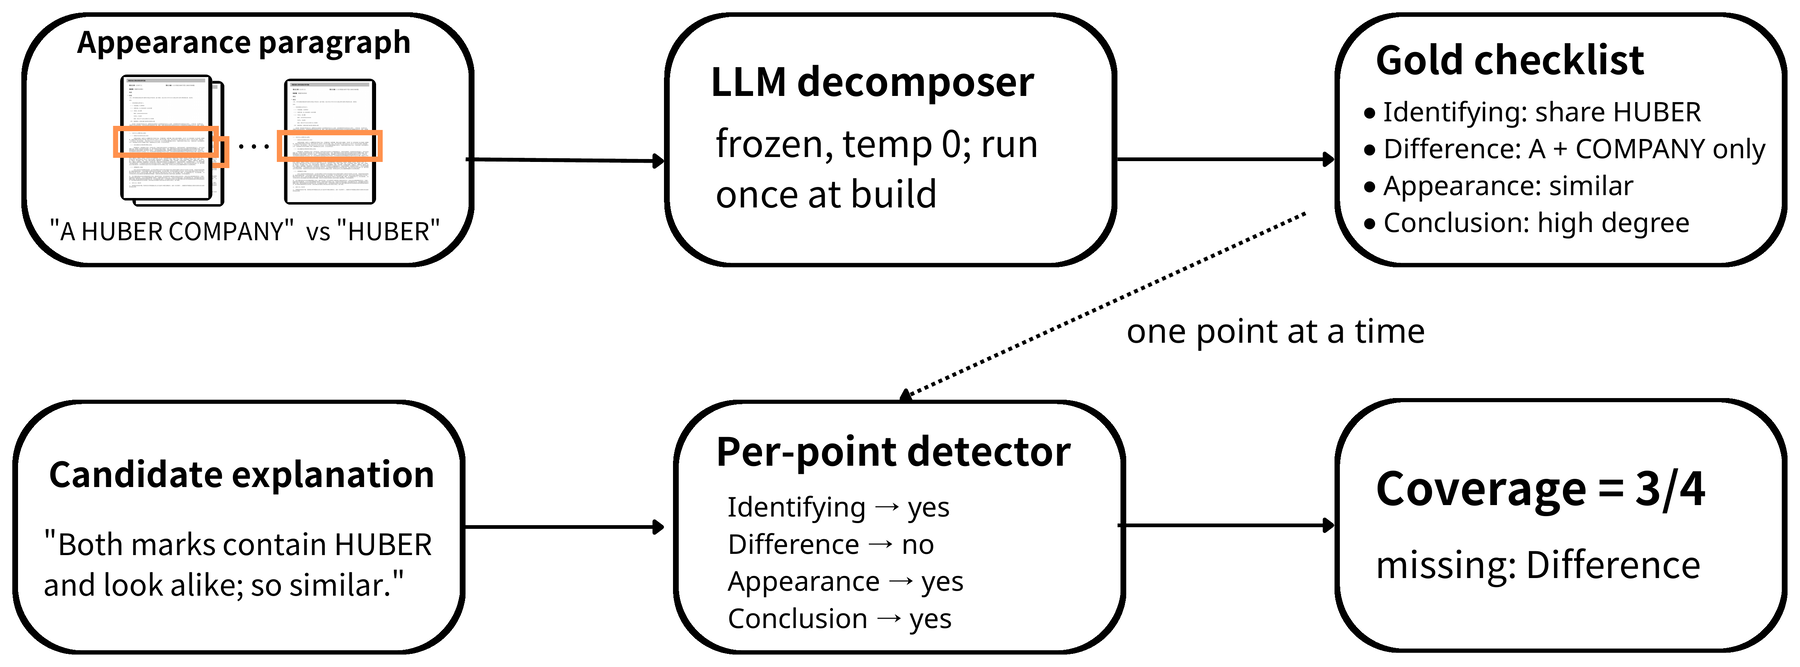
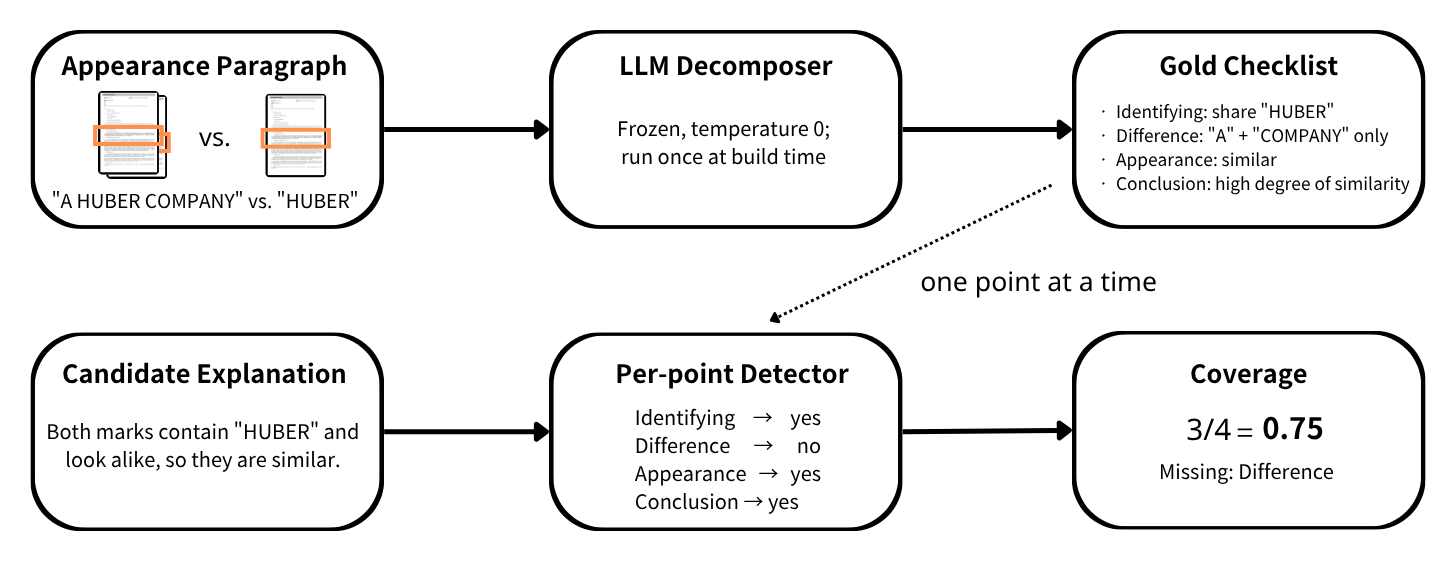
docs(letitbe): align wording with the paper and point shared content to the root README
- Call the source documents refusal dispositions, as the paper does
- Describe the detector report as overall precision, recall and F1 plus
  accuracy for each pair type, which is what letitbe.py prints
- Drop the clone step, the adapter table, the image sourcing notes and the
  license details that the root README already covers, and link to it
- Update the pipeline figure and crop its margins
- Small wording fixes in PROMPTS.md, SCHEMA.md, letitbe.py and preprocess.py

diff --git a/LETITBE/letitbe.py b/LETITBE/letitbe.py
@@ -9,7 +9,7 @@ Two tasks, one engine layer.
 `coverage` scores candidate explanations: for each gold reason point it asks the engine one
 yes/no question, and a case's coverage is the fraction of its points the candidate entails.
 `detector` evaluates the engine itself on labelled candidate-claim pairs and reports
-precision, recall and F1, broken down by how each negative was constructed.
+overall precision, recall and F1, and accuracy for each pair type.
 
 `qualify` decides whether an engine may be used at all, by scoring five candidates of known
 relative quality per case and checking the result against a published gate.
@@ -154,8 +154,7 @@ class ApiEngine:
 
     def _one(self, prompt):
         for i in range(self.retries):
-            # Greedy, to match the hf backend's do_sample=False. A metric that returns a
-            # different score for the same input on a second run is not a metric.
+            # Greedy, to match the hf backend's do_sample=False.
             kw = {} if self.temperature is None else {"temperature": self.temperature}
             try:
                 r = self.client.chat.completions.create(

diff --git a/LETITBE/README.md b/LETITBE/README.md
@@ -26,11 +26,10 @@ LETITBE/
 
 ## 1. Install
 
-Every command below runs from `VERTAG/LETITBE`.
+Clone the repository as in the [root README](../README.md#installation); every command below runs from `VERTAG/LETITBE`.
 
 ```bash
-git clone https://github.com/spaces-lalala/VERTAG.git
-cd VERTAG/LETITBE
+cd LETITBE
 pip install openai                  # enough for scoring through Ollama or any OpenAI-compatible API
 pip install -r requirements.txt     # the rest: --backend hf, decompose, fine-tuning
 ```
@@ -78,11 +77,11 @@ To evaluate a detector rather than score explanations, give it labelled candidat
 python letitbe.py detector --input examples/detector.example.jsonl --engine qwen2.5:7b
 ```
 
-It reports precision, recall and F1 broken down by how each negative was built. Accuracy on `hard_neg` is the primary diagnostic: a detector that matches on surface overlap accepts polarity flips and scores near zero there.
+It reports overall precision, recall and F1, and accuracy for each pair type. Accuracy on `hard_neg` is the primary diagnostic: a detector that matches on surface overlap accepts polarity flips and scores near zero there.
 
 ## 4. Choose an engine
 
-Use **`Qwen2.5-7B-Instruct` zero-shot**, the reference engine behind the paper's coverage figures. Any other engine must first pass the qualification gate: **boilerplate coverage no higher than 0.05, and a strictly monotone decline across full, ablate-1, ablate-half and wrong.**
+Use **`Qwen2.5-7B-Instruct` zero-shot**, the reference engine behind the paper's coverage scores. Any other engine must first pass the qualification gate: **boilerplate coverage no higher than 0.05, and a strictly monotone decline across full, ablate-1, ablate-half and wrong.**
 
 ```bash
 python letitbe.py qualify --input your_gold.jsonl --engine <engine>
@@ -101,26 +100,15 @@ python letitbe.py detector --input your_pairs.jsonl \
 
 `google/gemma-2-9b-it` is gated; accept its terms on Hugging Face and set `HF_TOKEN` first ([FAQ](../README.md#faq)).
 
-### Released adapters
-
-| Adapter | Base model |
-|---|---|
-| [`annieyii/letitbe-hitdet-gemma2-9b`](https://huggingface.co/annieyii/letitbe-hitdet-gemma2-9b) | `google/gemma-2-9b-it` |
-| [`annieyii/letitbe-hitdet-breeze-7b`](https://huggingface.co/annieyii/letitbe-hitdet-breeze-7b) | `MediaTek-Research/Breeze-7B-Instruct-v1_0` |
-
-Each model card on Hugging Face carries the prompt format, measurements, training setup and license. An adapter is **not** covered by this repository's licenses: each inherits its base model's terms, and for `gemma-2-9b` that means the Gemma Terms of Use.
+The released adapters are listed in the root README's [Model Zoo](../README.md#model-zoo). Each model card on Hugging Face carries the prompt format, measurements, training setup and license. An adapter is **not** covered by this repository's licenses: each inherits its base model's terms, and for `gemma-2-9b` that means the Gemma Terms of Use.
 
 ## 5. Build the corpus yourself
 
-The trademark images, the office action corpus, the decomposed corpus and the evaluation sets used in the paper are not distributed here. Everything below assumes you have obtained the source material first.
+The office action corpus, the decomposed corpus and the evaluation sets used in the paper are not distributed here. Everything below assumes you have obtained the source material first.
 
-The corpus is built from TIPO rejection dispositions (核駁審定書, `dptKind = REJ`), public administrative dispositions issued by the Taiwan Intellectual Property Office. The collection used in the paper covers examination numbers T0300000 to T0454297 and was retrieved in May and June 2026.
+The corpus is built from TIPO refusal dispositions (核駁審定書, `dptKind = REJ`), public administrative dispositions issued by the Taiwan Intellectual Property Office. The collection used in the paper covers examination numbers T0300000 to T0454297 and was retrieved in May and June 2026. We do not provide collection tooling; obtain these documents directly from TIPO.
 
-**Trademark images.** Marks are identified by their public registration numbers. TIPO publishes mark images through its patent and trademark open data service and its official trademark search system; look up a registration number there and save the image you need. We do not mirror, bulk-distribute, or provide collection tooling for these images.
-
-**Office action documents.** These are public administrative dispositions issued by TIPO. We do not redistribute the corpus and we do not provide collection tooling for it. Users must obtain these documents directly from TIPO.
-
-**Derived artifacts.** For the decomposed corpus, the gold checklists, or the evaluation subsets used in the paper, contact **matywu@gmail.com** with a short description of your intended use. These are released under CC BY-NC 4.0 and may not be used commercially.
+**Derived artifacts.** For the decomposed corpus, the gold checklists, or the evaluation subsets used in the paper, write to the [contact address](../README.md#contact) with a short description of your intended use. They are provided under CC BY-NC 4.0.
 
 With the source corpus in hand:
 
@@ -147,4 +135,4 @@ python finetune.py train --base google/gemma-2-9b-it --out models/hitdet_gemma \
 
 ## License
 
-See the [root README](../README.md). Code is MIT, data artifacts are CC BY-NC 4.0, commercial use of the data is prohibited, and automated crawling of this repository is prohibited. The released adapters are not covered by either license; each inherits its base model's terms.
+See [Copyright and Terms of Use](../README.md#copyright-and-terms-of-use) in the root README.

diff --git a/LETITBE/examples/SCHEMA.md b/LETITBE/examples/SCHEMA.md
@@ -2,7 +2,7 @@
 
 Two JSONL formats, one per task. Each file here holds five real records, enough to show the shape of the data and nothing more. See the [LETITBE README](../README.md) for how to obtain a full corpus.
 
-The `cand` fields in these examples quote passages of TIPO rejection dispositions verbatim. Those are public administrative dispositions, and these five records are included to illustrate the format, not as a dataset.
+The `cand` fields in these examples quote passages of TIPO refusal dispositions verbatim.
 
 ## `coverage.example.jsonl` — scoring an explanation
 
@@ -50,7 +50,7 @@ One record per candidate-claim pair. This is the input to detector evaluation: d
 | `easy_neg` | `false` | A claim taken from a different case, so it is unrelated to `cand` |
 | `hard_neg` | `false` | A polarity flip or element swap of a true claim, such as 應屬**不**構成近似之商標 or 整體外觀予人寓目印象極**不**相彷彿 |
 
-Hard negatives are the point of the set. A metric that matches on surface overlap will accept a polarity flip, because a flipped claim shares almost every character with the true one. The two hard negatives here read as near-copies of claims the examiner did make, with the conclusion reversed.
+Hard negatives are the point of the set. A metric that matches on surface overlap will accept a polarity flip, because a flipped claim shares almost every character with the true one. The two hard negatives here read as near-copies of claims the examiner did make, with the judgment reversed.
 
 ```json
 {"id": "T0434704",

diff --git a/LETITBE/PROMPTS.md b/LETITBE/PROMPTS.md
@@ -56,8 +56,8 @@ Run once, offline, when a corpus is built, at temperature 0 with the aspect fiel
 enum by a response schema so the model cannot invent a label. Its output is the frozen gold
 checklist. Defined in `preprocess.py` as `PROMPT`.
 
-The paper treats the decomposition as part of the dataset definition rather than a variable, so
-it is not ablated. Re-running it with a different model, or at a different temperature, produces
+The decomposition is part of the dataset definition rather than a variable, so it is not
+ablated. Re-running it with a different model, or at a different temperature, produces
 a different dataset, and the audit figures reported for the published checklists do not carry
 over to it.
 
